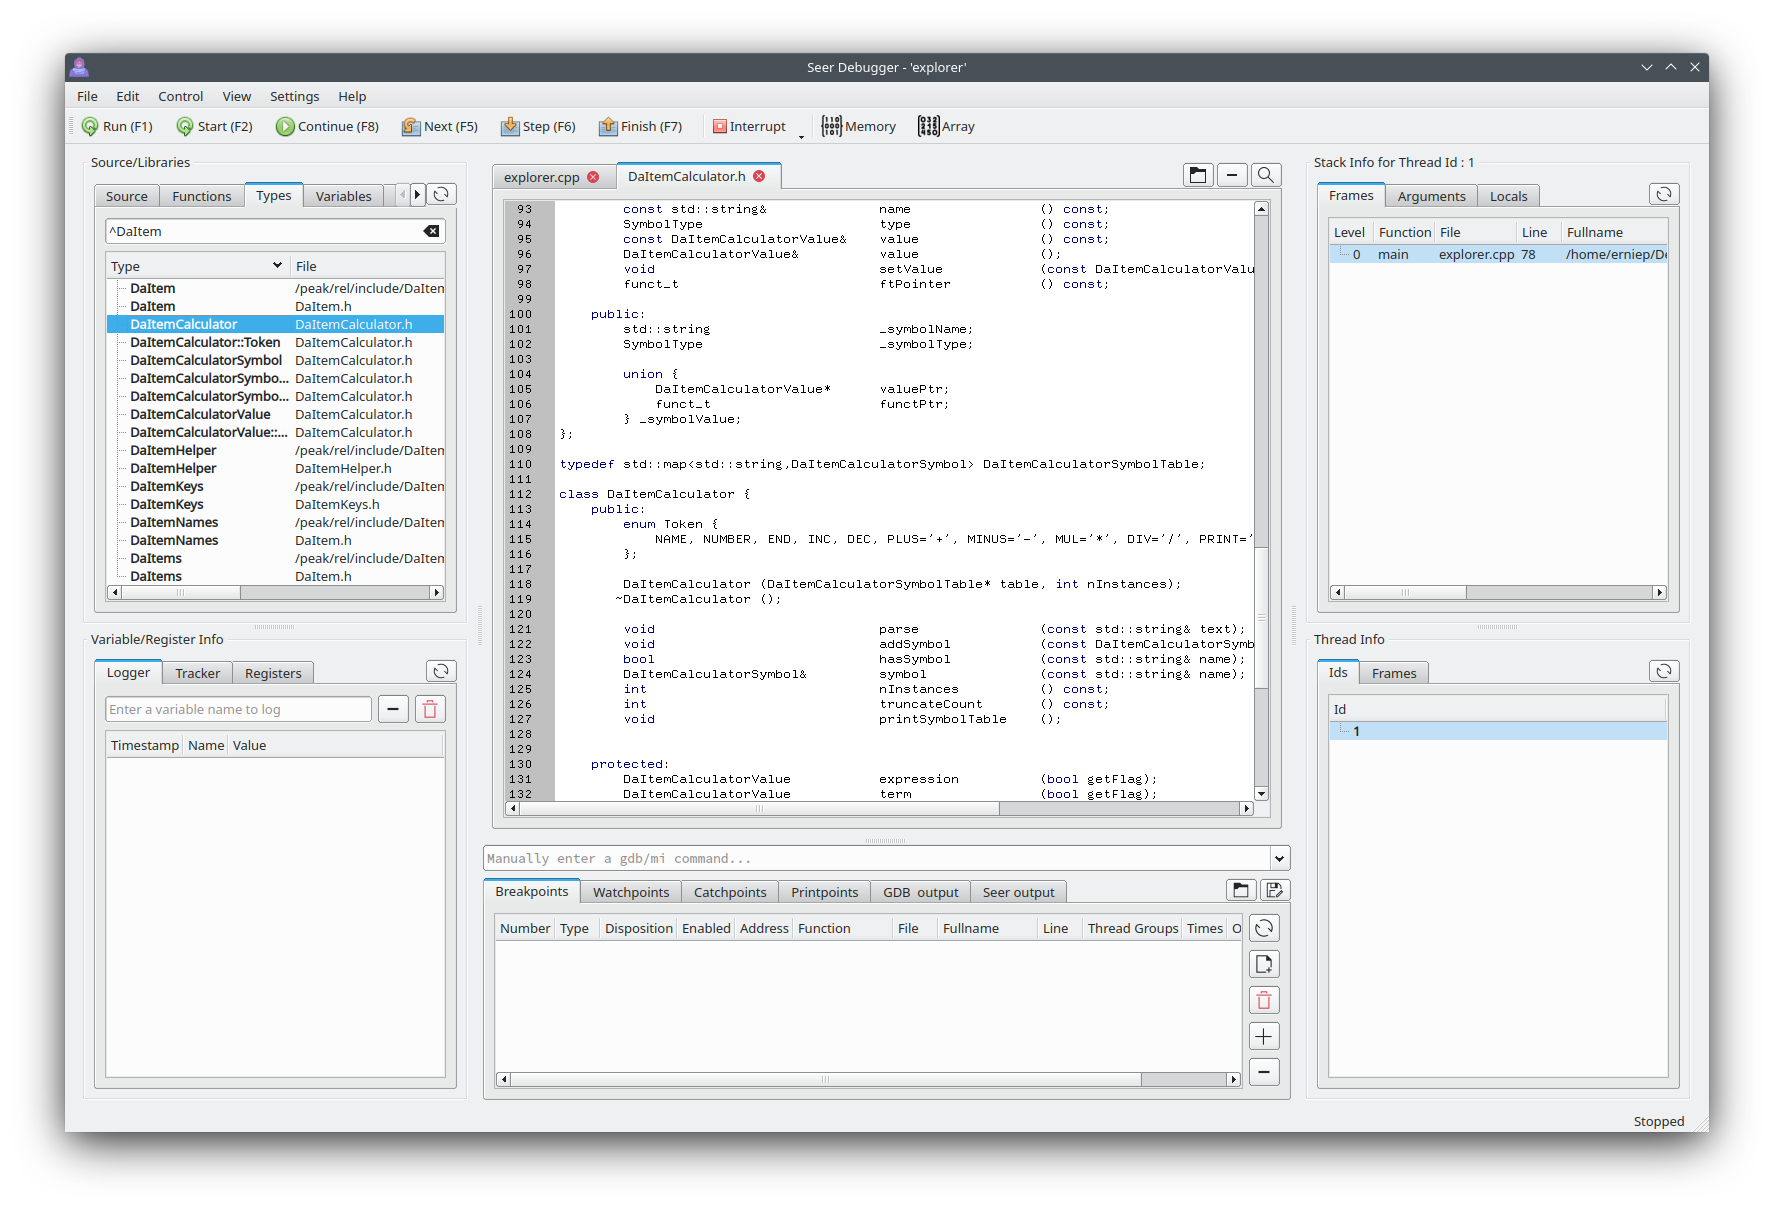
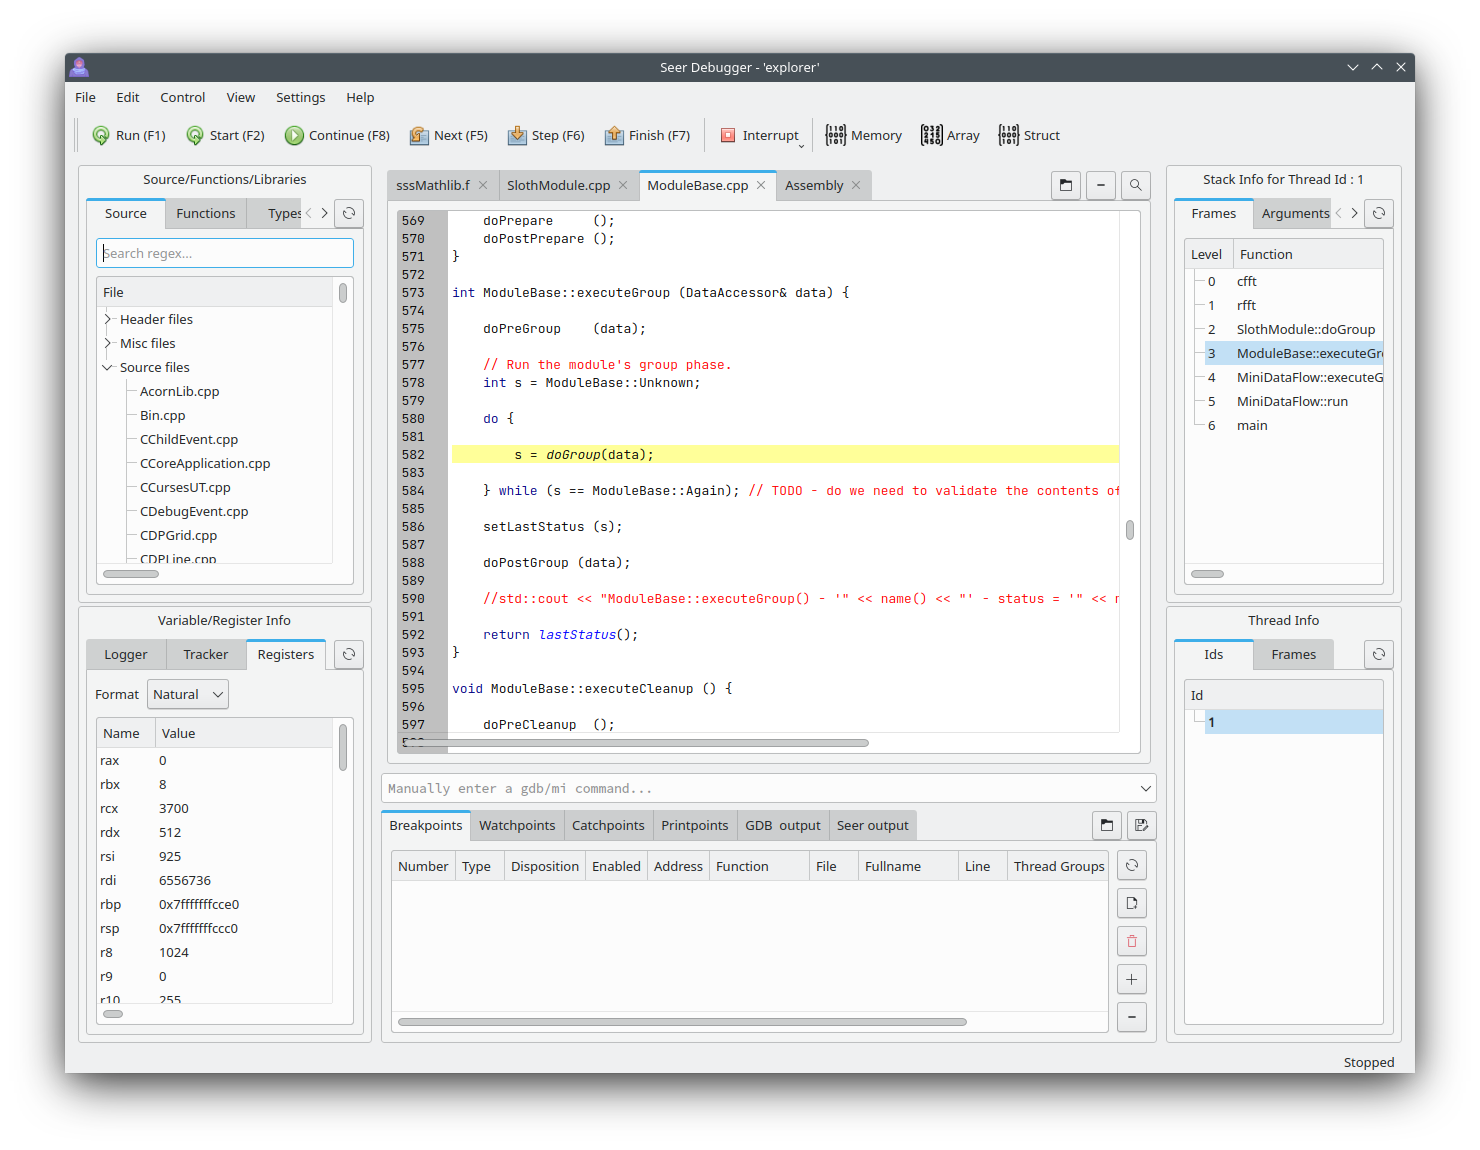
Update screenshots.

Changed region(s): [[0.0311, 0.0304, 0.9946, 0.9739]]

diff --git a/README.md b/README.md
@@ -151,6 +151,14 @@ X values | Y values | XY Values
 --- | --- | ---
 ![](images/arrayvisualizer_x.png) | ![](images/arrayvisualizer_y.png) | ![](images/arrayvisualizer_xy.png)
 
+Struct Visualizer
+-----------------
+
+When looking at the contents of a C/C++ struct or a C++ class in the Struct Visualizer, it looks like this.
+This example shows the contents of "*this" for the current C++ class that Seer is in.
+
+![](images/structvisualizer.png)
+
 
 Starting Seer
 =============
